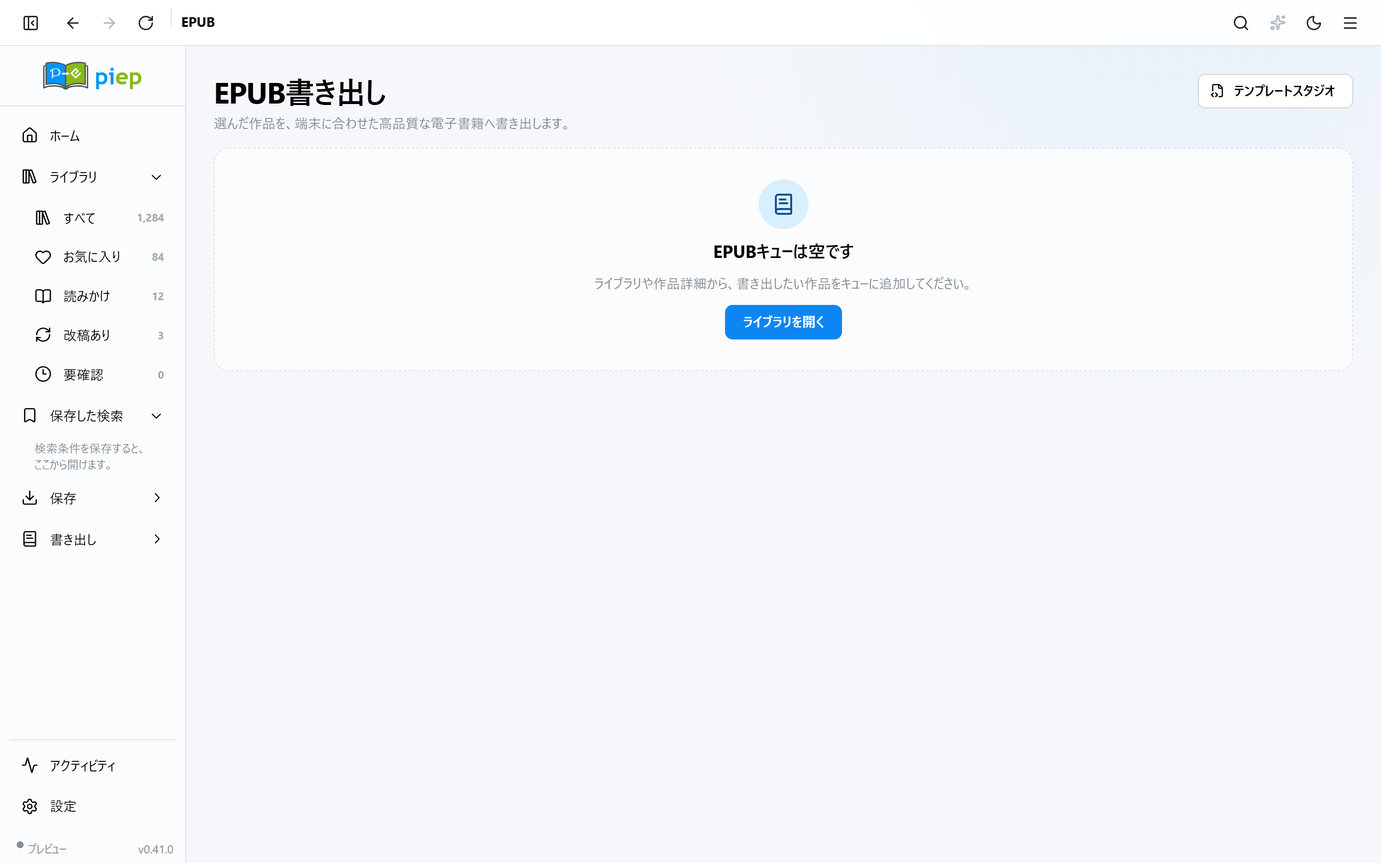
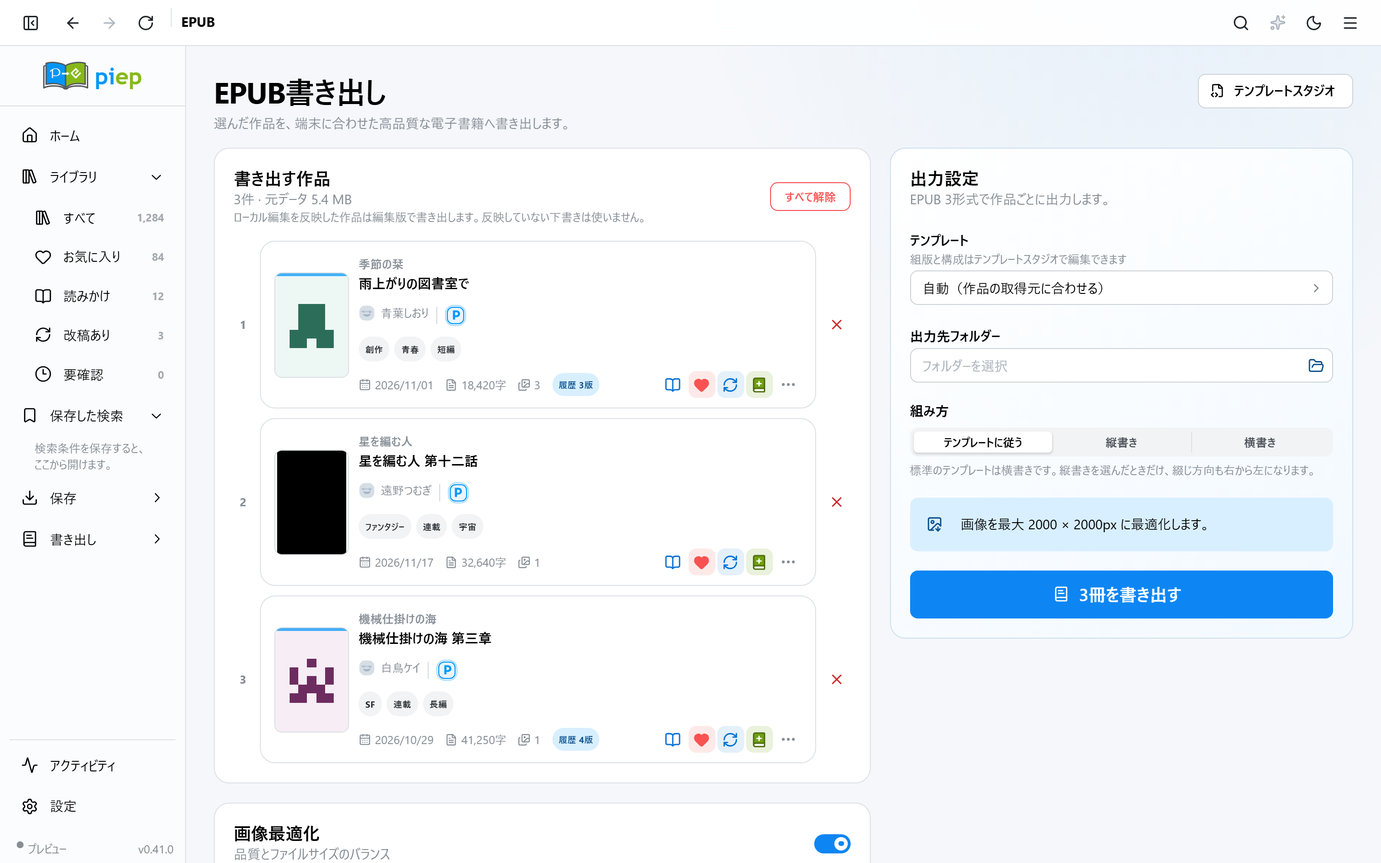
コレクションと更新の型から使わない作品の番号を外す
コレクションの回・表紙・提案・追加の候補、更新の候補・ジョブの項目が持っていた数値の
downloadId（いつも空か 0）を消す。提案の計算が作業用の表で使う番号は corpus_key として
画面へ出さない。作品は棚の ID だけで開き、「1作を選ぶ」の表紙は回の表紙の画像で照らす。
README の EPUB の撮影が古いキューの鍵を使っていて空の画面を撮っていたのも直す。

diff --git a/src/features/updates/UpdatesPage.tsx b/src/features/updates/UpdatesPage.tsx
@@ -29,7 +29,7 @@ import { reportJobAction } from "@/features/jobs/operationJobs";
 import { useMutation, useQuery, useQueryClient } from "@tanstack/react-query";
 import { Icons, IconSize } from "@/lib/icons";
 import { BrowserListShortcuts } from "./BrowserListShortcuts";
-import { useAppNavigate, useAppSearchParams } from "@/app/router";
+import { useAppSearchParams } from "@/app/router";
 import { EmptyState, ErrorState, LoadingState } from "@/components/AsyncState";
 import { MotionTabs as Tabs } from "@/components/MotionTabs";
 import { PageHeader } from "@/components/PageHeader";
@@ -99,7 +99,6 @@ export function parseWorkId(value: string | null): string | null {
 }
 
 export default function UpdatesPage() {
-  const navigate = useAppNavigate();
   const runtime = isTauriRuntime();
   const [searchParams, setSearchParams] = useAppSearchParams();
   const workId = parseWorkId(searchParams.get("work"));
@@ -581,7 +580,6 @@ export default function UpdatesPage() {
               onSave={() => saveCandidatesMutation.mutate(selectedSavableIds)}
               onLoadMore={() => runtime && updateJobs.loadMoreCandidates()}
               onDismiss={(candidate) => dismissMutation.mutate(candidate)}
-              onOpenWork={(id) => navigate(`/works/${id}`)}
             />
           ) : (
             <EmptyState icon={Icons.versionHistory} title="更新ジョブはまだありません" description="上の対象と方法を選び、「確認を開始」を押してください。" />
@@ -600,13 +598,12 @@ export default function UpdatesPage() {
               onRetry={() => void (resultIsTerminal ? jobItems.refetch() : heldItems.refetch())}
               onShowLogs={() => selectTab("logs")}
               onShowDeferred={() => selectTab("deferred")}
-              onOpenWork={(id) => navigate(`/works/${id}`)}
             />
           ) : <EmptyState icon={Icons.confirm} title="結果はまだありません" description="確認を開始すると、処理結果をここで確認できます。" />}
         </Tabs.Panel>
 
         <Tabs.Panel value="deferred" pt="lg">
-          <DeferredCandidatesPanel runtime={runtime} onOpenWork={(id) => navigate(`/works/${id}`)} onRechecked={(jobId) => { void updateJobs.selectJob(jobId); selectTab("candidates"); }} />
+          <DeferredCandidatesPanel runtime={runtime} onRechecked={(jobId) => { void updateJobs.selectJob(jobId); selectTab("candidates"); }} />
         </Tabs.Panel>
 
         <Tabs.Panel value="logs" pt="lg">
@@ -674,7 +671,7 @@ export default function UpdatesPage() {
 }
 
 /** A selected job's outcome, including holds that exist only in its history. */
-export function JobResultsPanel({ job, subject, items, loading, error, onRetry, onShowLogs, onShowDeferred, onOpenWork }: {
+export function JobResultsPanel({ job, subject, items, loading, error, onRetry, onShowLogs, onShowDeferred }: {
   job: UpdateJobSnapshot;
   subject?: string;
   items: UpdateJobItemState[] | null;
@@ -683,7 +680,6 @@ export function JobResultsPanel({ job, subject, items, loading, error, onRetry, 
   onRetry: () => void;
   onShowLogs: () => void;
   onShowDeferred: () => void;
-  onOpenWork?: (downloadId: number) => void;
 }) {
   const [visibleHeldCount, setVisibleHeldCount] = useState(50);
   const terminal = isUpdateJobTerminal(job.status);
@@ -723,7 +719,7 @@ export function JobResultsPanel({ job, subject, items, loading, error, onRetry, 
               <UpdateWorkMetadata metadata={item.metadata} />
             </Stack>
             <UpdateStatusBadge title={item.title || item.sourceId || "作品"} {...acquisitionStatusMeta(heldAcquisitionKind(reason))} detail={item.error || "確認を保留しました。保存済みの内容は保持されています。"} />
-            {item.source && item.sourceId && <UpdateWorkLinks source={item.source} sourceId={item.sourceId} downloadId={item.downloadId} workId={item.workId} title={item.title || item.sourceId} onOpenWork={onOpenWork} />}
+            {item.source && item.sourceId && <UpdateWorkLinks source={item.source} sourceId={item.sourceId} workId={item.workId} title={item.title || item.sourceId} />}
           </Group>
         </Paper>;
       })}
@@ -833,7 +829,7 @@ function JobStageProgress({ label, processed, total, animated }: { label: string
   </Box>;
 }
 
-export function CandidatesPanel({ candidates, selectedIds, selectableIds, running, saving, allowQueuedSelection, hasMore, jobActive, onToggle, onSelectMany, onClearSelection, onSave, onLoadMore, onDismiss, onOpenWork }: {
+export function CandidatesPanel({ candidates, selectedIds, selectableIds, running, saving, allowQueuedSelection, hasMore, jobActive, onToggle, onSelectMany, onClearSelection, onSave, onLoadMore, onDismiss }: {
   candidates: UpdateJobSnapshot["candidates"];
   selectedIds: Set<number>;
   selectableIds: number[];
@@ -848,7 +844,6 @@ export function CandidatesPanel({ candidates, selectedIds, selectableIds, runnin
   onSave: () => void;
   onLoadMore: () => void;
   onDismiss: (candidate: UpdateJobSnapshot["candidates"][number]) => void;
-  onOpenWork?: (downloadId: number) => void;
 }) {
   const [kind, setKind] = useState<string>("all");
   // 済んだものは畳む。数は残す - 「無かったこと」にはしない。
@@ -939,7 +934,7 @@ export function CandidatesPanel({ candidates, selectedIds, selectableIds, runnin
                 <UpdateWorkMetadata metadata={candidate.metadata} fallback={[candidate.targetLabel, candidate.subtitle].filter(Boolean).join(" · ")} />
               </Stack>
               <UpdateStatusBadge title={candidate.title} {...candidateStatusMeta(candidate)} detail={candidate.error} />
-              <UpdateWorkLinks source={candidate.source} sourceId={candidate.sourceId} downloadId={candidate.downloadId} workId={candidate.workId} title={candidate.title} onOpenWork={onOpenWork} />
+              <UpdateWorkLinks source={candidate.source} sourceId={candidate.sourceId} workId={candidate.workId} title={candidate.title} />
               {isSavableCandidate(candidate) && (
                 <Tooltip label="候補から外す（保留・非表示の一覧から戻せます）">
                   <ActionIcon variant="subtle" color="gray" aria-label={`${candidate.title}を候補から外す`} onClick={() => onDismiss(candidate)}>

diff --git a/src/features/collections/SuggestionInbox.tsx b/src/features/collections/SuggestionInbox.tsx
@@ -309,11 +309,11 @@ function SuggestionReview({ suggestion, draft, busy, accepting, runtime, deferre
             const evidence = [...new Set(member.evidence.filter((item) => !["series_subset", "edition_overlap", "order_conflict", "sequence_gap", "body_unconfirmed", "cross_source", "title_similarity", "content_link", "unregistered"].includes(item.kind)).map((item) => item.label).filter(Boolean))];
             return <li key={key} className="discovery-member" data-excluded={!included || undefined}>
               <div className="discovery-member__selection"><Checkbox checked={included} disabled={busy} aria-label={`${member.title}を含める`} onChange={() => onDraft((current) => ({ ...current, excluded: included ? [...current.excluded, key] : current.excluded.filter((value) => value !== key) }))} />{ordered && <span className="discovery-member__position" aria-label={`${index + 1}番目`}>{index + 1}</span>}</div>
-              <div className="discovery-member__cover"><WorkCover work={{ ...member, coverUrl: member.work ? shelfFileUrl(member.coverPath) : getAssetUrl(member.coverPath) }} variant="compact" /></div>
+              <div className="discovery-member__cover"><WorkCover work={{ ...member, coverUrl: runtime ? shelfFileUrl(member.coverPath) : getAssetUrl(member.coverPath) }} variant="compact" /></div>
               <div className="discovery-member__body"><Text size="sm" fw={650} className="discovery-member__title">{member.title}</Text><div className="discovery-member__meta"><span>{getProvider(member.source).label}</span><span>{member.authorName}</span><span>{member.textLength > 0 ? `${formatNumber(member.textLength)}字` : "本文未取得"}</span></div>
                 {evidence.length > 0 && <ul className="discovery-member__evidence">{evidence.slice(0, 2).map((label) => <li key={label}>{label}</li>)}</ul>}
                 {evidence.length > 2 && <details className="discovery-member__more"><summary>ほかの根拠 {evidence.length - 2}件</summary><ul>{evidence.slice(2).map((label) => <li key={label}>{label}</li>)}</ul></details>}
-                <Button variant="subtle" color="gray" size="compact-xs" className="discovery-member__preview" leftSection={<Icons.read size={IconSize.inline} />} disabled={busy || (runtime ? !member.work : member.downloadId === null)} onClick={() => setPreview(member)}>本文を確認</Button>
+                <Button variant="subtle" color="gray" size="compact-xs" className="discovery-member__preview" leftSection={<Icons.read size={IconSize.inline} />} disabled={busy || !member.work} onClick={() => setPreview(member)}>本文を確認</Button>
               </div>
               {ordered && <div className="discovery-member__order"><Tooltip label="一つ前へ"><ActionIcon variant="subtle" color="gray" aria-label={`${member.title}を一つ前へ`} disabled={busy || index === 0} onClick={() => move(index, -1)}><Icons.up size={IconSize.menu} /></ActionIcon></Tooltip><Tooltip label="一つ後へ"><ActionIcon variant="subtle" color="gray" aria-label={`${member.title}を一つ後へ`} disabled={busy || index === members.length - 1} onClick={() => move(index, 1)}><Icons.down size={IconSize.menu} /></ActionIcon></Tooltip></div>}
             </li>;
@@ -336,18 +336,17 @@ function ReaderPreview({ member, runtime, onBack }: { member: CollectionSuggesti
   const [knownPageCount, setKnownPageCount] = useState(1);
   const contentRef = useRef<HTMLDivElement>(null);
   const content = useQuery({
-    queryKey: ["collection-preview", member.work ?? member.downloadId, page],
+    queryKey: ["collection-preview", member.work, page],
     queryFn: async () => {
       // 棚の候補は作品の UUID で読む。読む画面と同じ HTML を平文にして見せる。
       if (runtime && member.work) {
         const shelfPage = await shelfContent(member.work, null, page);
         return { ...shelfPage, plainText: htmlText(shelfPage.html) };
       }
-      const demo = getDemoReader(String(member.downloadId));
+      const demo = getDemoReader(member.work ?? "");
       return Promise.resolve({ page: 0, pageCount: 1, plainText: demo.plainText, html: demo.html, totalPlainTextChars: demo.plainText.length, sourcePageStarts: [0] });
     },
-    // 棚の候補は作品の ID で、プレビューの見本は番号で読む。
-    enabled: runtime ? Boolean(member.work) : member.downloadId !== null,
+    enabled: Boolean(member.work),
     staleTime: 60_000,
   });
   useEffect(() => { if (content.data) setKnownPageCount(content.data.pageCount); }, [content.data]);

diff --git a/src/features/collections/CollectionMemberList.test.tsx b/src/features/collections/CollectionMemberList.test.tsx
@@ -15,7 +15,6 @@ function member(overrides: Partial<WorkCollectionMember> = {}): WorkCollectionMe
     collectionId: "collection-1",
     source: work.source,
     sourceId: work.sourceId,
-    downloadId: null,
     title: work.title,
     authorName: work.authorName,
     coverPath: work.coverUrl,
@@ -37,7 +36,7 @@ function member(overrides: Partial<WorkCollectionMember> = {}): WorkCollectionMe
 function renderList(props: Partial<React.ComponentProps<typeof CollectionMemberList>> = {}) {
   const client = new QueryClient({ defaultOptions: { queries: { retry: false } } });
   const merged: React.ComponentProps<typeof CollectionMemberList> = {
-    members: [member(), member({ sourceId: "202", downloadId: 102, title: "つづき", position: 1, work: { ...demoWorks[1], id: "102" } })],
+    members: [member(), member({ sourceId: "202", title: "つづき", position: 1, work: { ...demoWorks[1], id: "102" } })],
     ordered: true,
     view: "compact",
     busy: false,
@@ -155,7 +154,7 @@ describe("CollectionMemberList", () => {
 
   it("shows an unsaved member without pretending it is a work card", () => {
     renderList({
-      members: [member({ downloadId: null, work: null, missing: true, title: "手元に無い話" })],
+      members: [member({ work: null, missing: true, title: "手元に無い話" })],
     });
     expect(screen.getByText("手元に無い話")).toBeInTheDocument();
     expect(screen.getByText("未保存")).toBeInTheDocument();
@@ -176,8 +175,7 @@ describe("CollectionMemberList", () => {
   it("progressively reveals a very large collection instead of mounting every card", () => {
     const members = Array.from({ length: 121 }, (_, index) => member({
       sourceId: `missing-${index + 1}`,
-      downloadId: null,
-      title: `member-${index + 1}`,
+        title: `member-${index + 1}`,
       position: index,
       work: null,
       missing: true,
@@ -200,7 +198,6 @@ describe("CollectionMemberList", () => {
   describe("ページ番号で見ているとき", () => {
     const paged = (count: number) => Array.from({ length: count }, (_, index) => member({
       sourceId: `paged-${index + 1}`,
-      downloadId: 1000 + index,
       title: `${index + 1}番目`,
       position: index,
       work: { ...demoWorks[0], id: String(1000 + index), title: `${index + 1}番目` },

diff --git a/src/features/updates/UpdateWorkLinks.test.tsx b/src/features/updates/UpdateWorkLinks.test.tsx
@@ -1,7 +1,7 @@
 import { AppRouter } from "@/app/router";
 import { MantineProvider } from "@mantine/core";
 import { fireEvent, render, screen } from "@testing-library/react";
-import { expect, it, vi } from "vitest";
+import { expect, it } from "vitest";
 import { UpdateWorkLinks, formatUpdateSubtitle } from "./UpdateWorkLinks";
 
 it("shows provider timestamps in the app's local date format", () => {
@@ -9,17 +9,15 @@ it("shows provider timestamps in the app's local date format", () => {
     .not.toContain("2018-10-06T00:01:55+09:00");
 });
 
-it("opens the saved work and its provider from the same row", () => {
-  const openWork = vi.fn();
+it("opens the provider of a work that is not on the shelf", () => {
   window.location.hash = "#/updates";
-  render(<MantineProvider><AppRouter><UpdateWorkLinks source="pixiv" sourceId="123" downloadId={42} title="作品" onOpenWork={openWork} /></AppRouter></MantineProvider>);
-  fireEvent.click(screen.getByRole("button", { name: "作品の保存した詳細を開く" }));
-  expect(openWork).toHaveBeenCalledWith(42);
+  render(<MantineProvider><AppRouter><UpdateWorkLinks source="pixiv" sourceId="123" title="作品" /></AppRouter></MantineProvider>);
+  expect(screen.queryByRole("button", { name: "作品の保存した詳細を開く" })).toBeNull();
   fireEvent.click(screen.getByRole("button", { name: "作品の取得元を開く" }));
   expect(window.location.hash).toContain("/save/pixiv?url=https%3A%2F%2Fwww.pixiv.net%2Fnovel%2Fshow.php%3Fid%3D123");
 });
 
-it("opens the saved UUID from the new shelf without an old database number", () => {
+it("opens the saved work by its shelf ID", () => {
   const id="019ad000-0000-7000-8000-000000000001";
   window.location.hash="#/updates";
   render(<MantineProvider><AppRouter><UpdateWorkLinks source="pixiv" sourceId="123" workId={id} title="棚の作品" /></AppRouter></MantineProvider>);

diff --git a/src/features/updates/UpdateWorkLinks.tsx b/src/features/updates/UpdateWorkLinks.tsx
@@ -9,13 +9,12 @@ export function formatUpdateSubtitle(subtitle: string): string {
   return subtitle.replace(/\d{4}-\d{2}-\d{2}T\d{2}:\d{2}:\d{2}(?:\.\d+)?(?:Z|[+-]\d{2}:\d{2})/g, (date) => formatDate(date, true));
 }
 
-export function UpdateWorkLinks({ source, sourceId, downloadId, workId, title, onOpenWork }: {
+export function UpdateWorkLinks({ source, sourceId, workId, title }: {
   source: string;
   sourceId: string;
-  downloadId?: number | null;
+  /** 棚に保存した作品の ID。あれば作品の画面を開ける。 */
   workId?: string | null;
   title: string;
-  onOpenWork?: (downloadId: number) => void;
 }) {
   const navigate = useAppNavigate();
   const url = sourceUrl(source, sourceId);
@@ -24,7 +23,7 @@ export function UpdateWorkLinks({ source, sourceId, downloadId, workId, title, o
     navigate(`/save/${source}?url=${encodeURIComponent(url)}`);
   };
   return <Group gap={2} wrap="nowrap" justify="flex-end" style={{ flex: "0 0 64px" }}>
-    {(workId || (downloadId && onOpenWork)) && <Tooltip label="保存した作品を開く"><ActionIcon variant="subtle" color="piep" aria-label={`${title}の保存した詳細を開く`} onClick={() => workId ? navigate(`/works/${workId}`) : downloadId && onOpenWork?.(downloadId)}><Icons.read size={IconSize.action} /></ActionIcon></Tooltip>}
+    {workId && <Tooltip label="保存した作品を開く"><ActionIcon variant="subtle" color="piep" aria-label={`${title}の保存した詳細を開く`} onClick={() => navigate(`/works/${workId}`)}><Icons.read size={IconSize.action} /></ActionIcon></Tooltip>}
     {url && <Tooltip label="取得元をアプリ内で開く"><ActionIcon variant="subtle" color="gray" aria-label={`${title}の取得元を開く`} onClick={openSource}><Icons.inAppBrowser size={IconSize.action} /></ActionIcon></Tooltip>}
   </Group>;
 }

diff --git a/src/features/updates/DeferredCandidatesPanel.tsx b/src/features/updates/DeferredCandidatesPanel.tsx
@@ -25,7 +25,7 @@ function candidateReason(row: DeferredUpdateCandidate): { reason: string; catego
   return { reason, category };
 }
 
-export function DeferredCandidatesPanel({ runtime, onRechecked, onOpenWork }: { runtime: boolean; onRechecked: (jobId: string) => void; onOpenWork?: (downloadId: number) => void }) {
+export function DeferredCandidatesPanel({ runtime, onRechecked }: { runtime: boolean; onRechecked: (jobId: string) => void }) {
   const [selected, setSelected] = useState<Set<string>>(new Set());
   const [search, setSearch] = useState("");
   const [statusFilter, setStatusFilter] = useState<string | null>("all");
@@ -82,7 +82,7 @@ export function DeferredCandidatesPanel({ runtime, onRechecked, onOpenWork }: { 
         <ProviderMark provider={row.source} compact />
         <Stack gap={3} style={{ flex: 1, minWidth: 0 }}><Text size="sm" fw={600}>{row.title}</Text><UpdateWorkMetadata metadata={row.metadata} /></Stack>
         <UpdateStatusBadge title={row.title} {...status} detail={reason} />
-        <UpdateWorkLinks source={row.source} sourceId={row.sourceId} downloadId={row.downloadId} workId={row.workId} title={row.title} onOpenWork={onOpenWork} />
+        <UpdateWorkLinks source={row.source} sourceId={row.sourceId} workId={row.workId} title={row.title} />
       </Group>;
     })}
     {pageCount > 1 && <Pagination size="sm" total={pageCount} value={currentPage} onChange={setPage} aria-label="保留候補のページ" />}

diff --git a/src/features/collections/CollectionCoverModal.tsx b/src/features/collections/CollectionCoverModal.tsx
@@ -54,10 +54,13 @@ export function CollectionCoverModal({
   useEffect(() => {
     if (!opened) return;
     setMode(collection.coverMode);
-    const current = collection.members.find((member) => member.downloadId !== null && member.downloadId === collection.coverDownloadId);
+    // 「1作を選ぶ」の表紙は、その作品の表紙の画像そのもの。同じ画像の回を選んだことにする。
+    const current = collection.coverMode === "single" && collection.coverPath
+      ? collection.members.find((member) => member.coverPath === collection.coverPath)
+      : undefined;
     setCoverKey(current ? memberKey(current) : null);
     setImagePath(collection.coverImagePath);
-  }, [collection.coverDownloadId, collection.coverImagePath, collection.coverMode, collection.members, opened]);
+  }, [collection.coverImagePath, collection.coverMode, collection.coverPath, collection.members, opened]);
 
   const pickImage = async () => {
     try {
@@ -151,7 +154,6 @@ export function CollectionCoverModal({
                 name: collection.name,
                 description: collection.description,
                 collectionKind: collection.collectionKind,
-                coverDownloadId: coverMember?.downloadId ?? null,
                 coverMode: mode,
                 coverImagePath: imagePath,
               }, coverMember ? { source: coverMember.source, sourceId: coverMember.sourceId } : null)

diff --git a/src/types/collections.ts b/src/types/collections.ts
@@ -47,7 +47,6 @@ export interface WorkCollectionSummary {
   name: string;
   description: string | null;
   collectionKind: CollectionKind;
-  coverDownloadId: number | null;
   coverPath: string | null;
   coverMode: CollectionCoverMode;
   coverImagePath: string | null;
@@ -71,7 +70,6 @@ export interface WorkCollectionMember {
   collectionId: string;
   source: SourceKind;
   sourceId: string;
-  downloadId: number | null;
   title: string;
   authorName: string;
   coverPath: string | null;
@@ -99,7 +97,6 @@ export interface WorkCollectionInput {
   name: string;
   description?: string | null;
   collectionKind: CollectionKind;
-  coverDownloadId?: number | null;
   coverMode?: CollectionCoverMode | null;
   coverImagePath?: string | null;
   nameSource?: CollectionNameSource | null;
@@ -140,7 +137,6 @@ export interface CollectionSuggestionEvidence {
 }
 
 export interface CollectionSuggestionMember extends WorkKey {
-  downloadId: number | null;
   /** 棚の作品（UUID）。 */
   work?: string | null;
   title: string;
@@ -204,8 +200,6 @@ export interface CollectionSweepResult {
 export interface CollectionAdditionCandidate {
   source: string;
   sourceId: string;
-  /** 使わない番号（いつも 0）。作品は `work` で指す。 */
-  downloadId: number;
   /** 棚の作品（UUID）。 */
   work?: string | null;
   title: string;

diff --git a/src/features/updates/UpdatesPage.results.test.tsx b/src/features/updates/UpdatesPage.results.test.tsx
@@ -48,14 +48,15 @@ it("shows a missing pixiv work as held with its source ID and no job error", asy
 });
 
 it("opens the saved work from the result row without shifting the row content", () => {
-  const onOpenWork = vi.fn();
+  window.location.hash = "#/updates";
+  const id = "019ad000-0000-7000-8000-000000000042";
   render(<MantineProvider><AppRouter><JobResultsPanel
     job={{ ...job, totals: 1, processed: 1, heldCount: 1 }}
-    items={[{ source: "fanbox", sourceId: "saved-1", itemType: "work", title: "保存済み作品", status: "held", error: "閲覧条件待ち", downloadId: 42 }]}
-    loading={false} error={null} onRetry={vi.fn()} onShowLogs={vi.fn()} onShowDeferred={vi.fn()} onOpenWork={onOpenWork}
+    items={[{ source: "fanbox", sourceId: "saved-1", itemType: "work", title: "保存済み作品", status: "held", error: "閲覧条件待ち", workId: id }]}
+    loading={false} error={null} onRetry={vi.fn()} onShowLogs={vi.fn()} onShowDeferred={vi.fn()}
   /></AppRouter></MantineProvider>);
   fireEvent.click(screen.getByRole("button", { name: "保存済み作品の保存した詳細を開く" }));
-  expect(onOpenWork).toHaveBeenCalledWith(42);
+  expect(window.location.hash).toContain(`/works/${id}`);
 });
 
 it("offers the deferred shelf only for an access restriction", () => {

diff --git a/src/features/collections/CollectionAdditionsModal.test.tsx b/src/features/collections/CollectionAdditionsModal.test.tsx
@@ -25,7 +25,6 @@ function candidate(index: number, reason = "同じ公式シリーズの作品で
   return {
     source: "pixiv",
     sourceId: String(index),
-    downloadId: index,
     title: `作品${index}`,
     authorName: "作者",
     coverPath: null,
@@ -84,7 +83,7 @@ describe("CollectionAdditionsModal", () => {
   it("sends every candidate that was left in", async () => {
     const onAdd = renderModal();
     await userEvent.click(await screen.findByRole("button", { name: "3作品を追加" }));
-    expect(onAdd.mock.calls[0][0].map((value: { downloadId: number }) => value.downloadId)).toEqual([1, 2, 3]);
+    expect(onAdd.mock.calls[0][0].map((value: { sourceId: string }) => value.sourceId)).toEqual(["1", "2", "3"]);
   });
 
   /**
@@ -98,7 +97,7 @@ describe("CollectionAdditionsModal", () => {
     expect(await screen.findByRole("button", { name: "作品2を候補に戻す" })).toBeInTheDocument();
 
     await userEvent.click(await screen.findByRole("button", { name: "2作品を追加" }));
-    expect(onAdd.mock.calls[0][0].map((value: { downloadId: number }) => value.downloadId)).toEqual([1, 3]);
+    expect(onAdd.mock.calls[0][0].map((value: { sourceId: string }) => value.sourceId)).toEqual(["1", "3"]);
   });
 
   /**

diff --git a/src/features/collections/discoveryTestData.ts b/src/features/collections/discoveryTestData.ts
@@ -4,6 +4,6 @@ export function discoverySuggestion(id = "sug-1", name = "雨の連作"): Collec
   return {
     id, proposedName: name, nameOptions: [{ name, source: "title", label: "題名の共通部分" }, { name: "作者の連作", source: "author", label: "作者" }],
     collectionKind: "ordered", track: "sequence", origin: "sweep", evidenceSummary: "題名の話数が続いています", score: 0.9, ruleVersion: "test", state: "pending", createdAt: "2026-09-01", updatedAt: "2026-09-01",
-    members: [1, 2, 3].map((index) => ({ source: index === 3 ? "fanbox" : "pixiv", sourceId: String(index), downloadId: index, work: `w-${index}`, title: `作品${index}`, authorName: "作者", coverPath: null, textLength: 1000, proposedPosition: index - 1, score: 1, selected: true, evidence: [{ kind: "episode_order", label: `第${index}話`, contribution: 0 }] })),
+    members: [1, 2, 3].map((index) => ({ source: index === 3 ? "fanbox" : "pixiv", sourceId: String(index), work: `w-${index}`, title: `作品${index}`, authorName: "作者", coverPath: null, textLength: 1000, proposedPosition: index - 1, score: 1, selected: true, evidence: [{ kind: "episode_order", label: `第${index}話`, contribution: 0 }] })),
   };
 }

diff --git a/src/features/library/shelf.ts b/src/features/library/shelf.ts
@@ -471,7 +471,6 @@ export function shelfCollectionSummary(item: ShelfCollectionSummary): WorkCollec
     name: item.name,
     description: item.description,
     collectionKind: item.ordered ? "ordered" : "unordered",
-    coverDownloadId: null,
     coverPath: item.cover,
     coverMode: item.cover_mode as CollectionCoverMode,
     coverImagePath: item.cover_image,
@@ -499,7 +498,7 @@ export async function shelfCollections(): Promise<WorkCollectionSummary[]> {
 
 /**
  * コレクションの画面を棚から引く。回の作品は一覧と同じ `ShelfEntry`（作品の画面・読む画面は
- * 棚の ID で開く）。`downloadId` は使わない（空）。
+ * 棚の ID で開く）。
  */
 export async function shelfCollection(id: string): Promise<WorkCollection> {
   return shelfCollectionView(await fetchShelfCollection(id));
@@ -522,7 +521,6 @@ function shelfCollectionView(item: ShelfCollection): WorkCollection {
       collectionId: summary.id,
       source: member.provider as SourceKind,
       sourceId: member.external_key,
-      downloadId: null,
       title: member.title,
       authorName: member.author_name,
       coverPath: member.cover,
